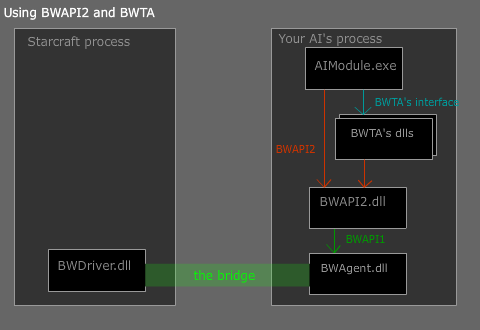
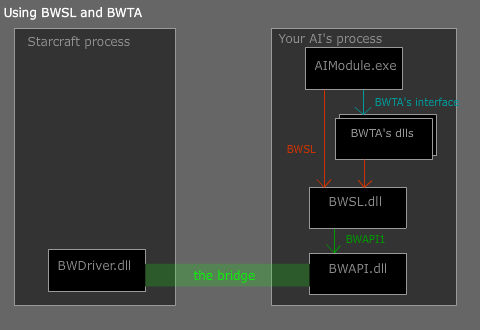
BWAPIv3: - renamed project BWAgent to BWAPI. BWAPI interface is now provided by BWAPI.dll, splendid! - changes wiki images from BWAPI2 to BWSL
git-svn-id: http://bwapi.googlecode.com/svn@2039 273ecf2c-f24b-0410-b6a7-e9298bb4873f

diff --git a/trunk/bwapi3/BWAPITypes/UnitState.h b/trunk/bwapi3/BWAPITypes/UnitState.h
@@ -96,9 +96,10 @@ namespace BWAPI
   };
   struct UnitStateFull : UnitStateVisible
   {
-    // you could only possibly see this if you own it
+    // strategic private data
     bool isHallucination;
     bool isLoaded;
+    int defenseMatrixPoints;
 
     // connected units
     union
@@ -117,11 +118,10 @@ namespace BWAPI
     int plagueTimer;
     int stasisTimer;
     int stimTimer;
-    int defenseMatrixPoints;
+    int trainTimer;
 
     // unit's orders
     Order order;
-
     Util::StaticVector<UnitId, 5> trainingQueue;
 
     // Broodwar's unit movement engine

diff --git a/trunk/bwapi3/BWDriver/Source/BWAPI/Engine.cpp b/trunk/bwapi3/BWDriver/Source/BWAPI/Engine.cpp
@@ -649,6 +649,7 @@ namespace BWAPI
           {
             int buildUnitIndex            = BW::BWDATA_UnitNodeTable->getIndexByUnit(bwBuildUnit);
             knownUnit.buildUnit           = bwUnitArrayMirror[buildUnitIndex].knownUnitIndex;
+            knownUnit.trainTimer          = bwBuildUnit->remainingBuildTime;
           }
           else
             knownUnit.buildUnit           = -1;
@@ -669,7 +670,6 @@ namespace BWAPI
             count++;
           }
         }
-
       } //if(isKnown)
       return true;
     }
